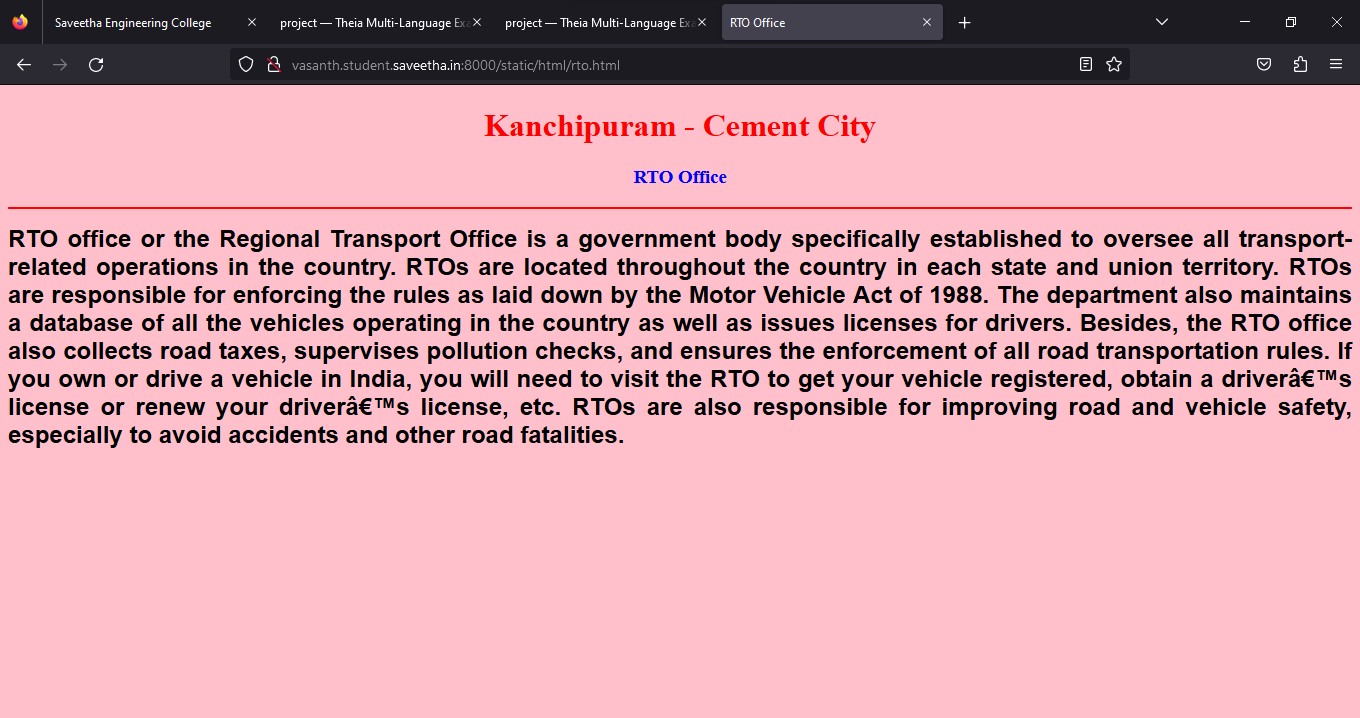
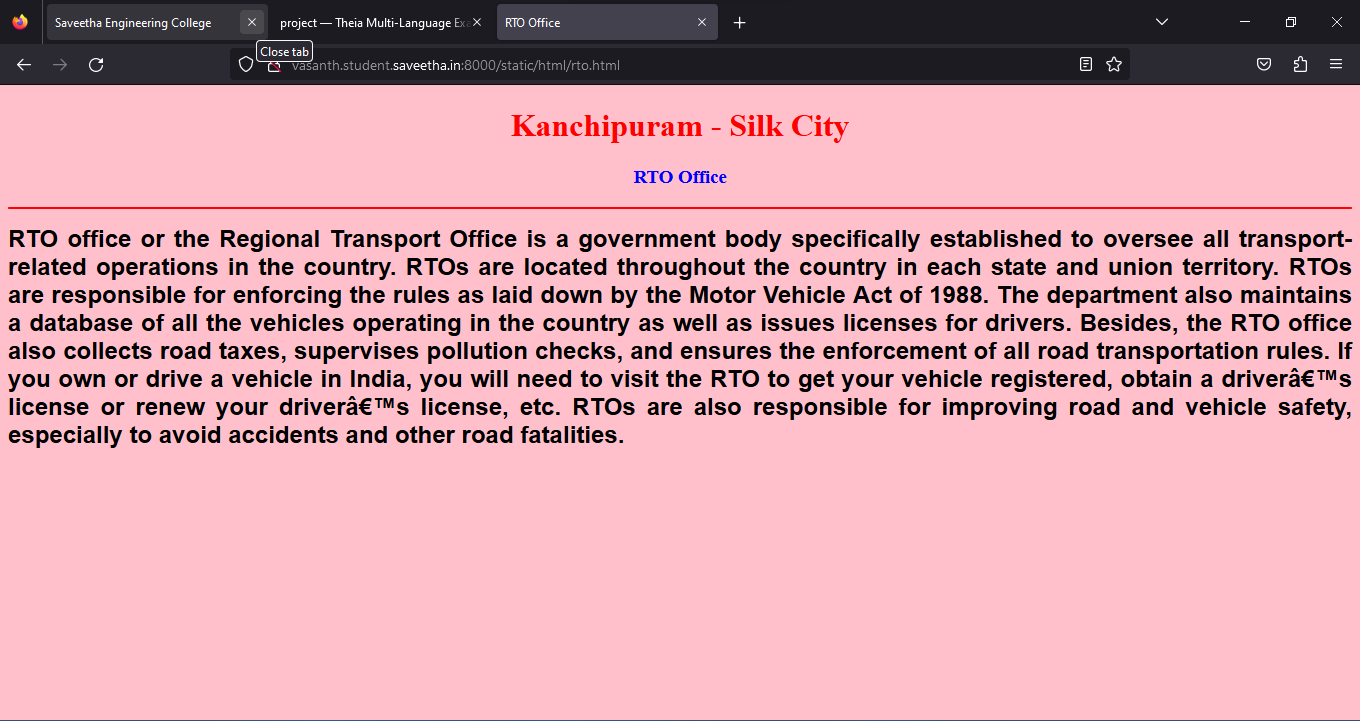
Success

diff --git a/newpro/static/html/rto.html b/newpro/static/html/rto.html
@@ -5,7 +5,7 @@
 </head>
 <body bgcolor="pink">
 <h1 align="center">
-<font color="red"><b>Kanchipuram - Cement City</b></font>
+<font color="red"><b>Kanchipuram - Silk City</b></font>
 </h1>
 <h3 align="center">
 <font color="blue"><b>RTO Office</b></font>
